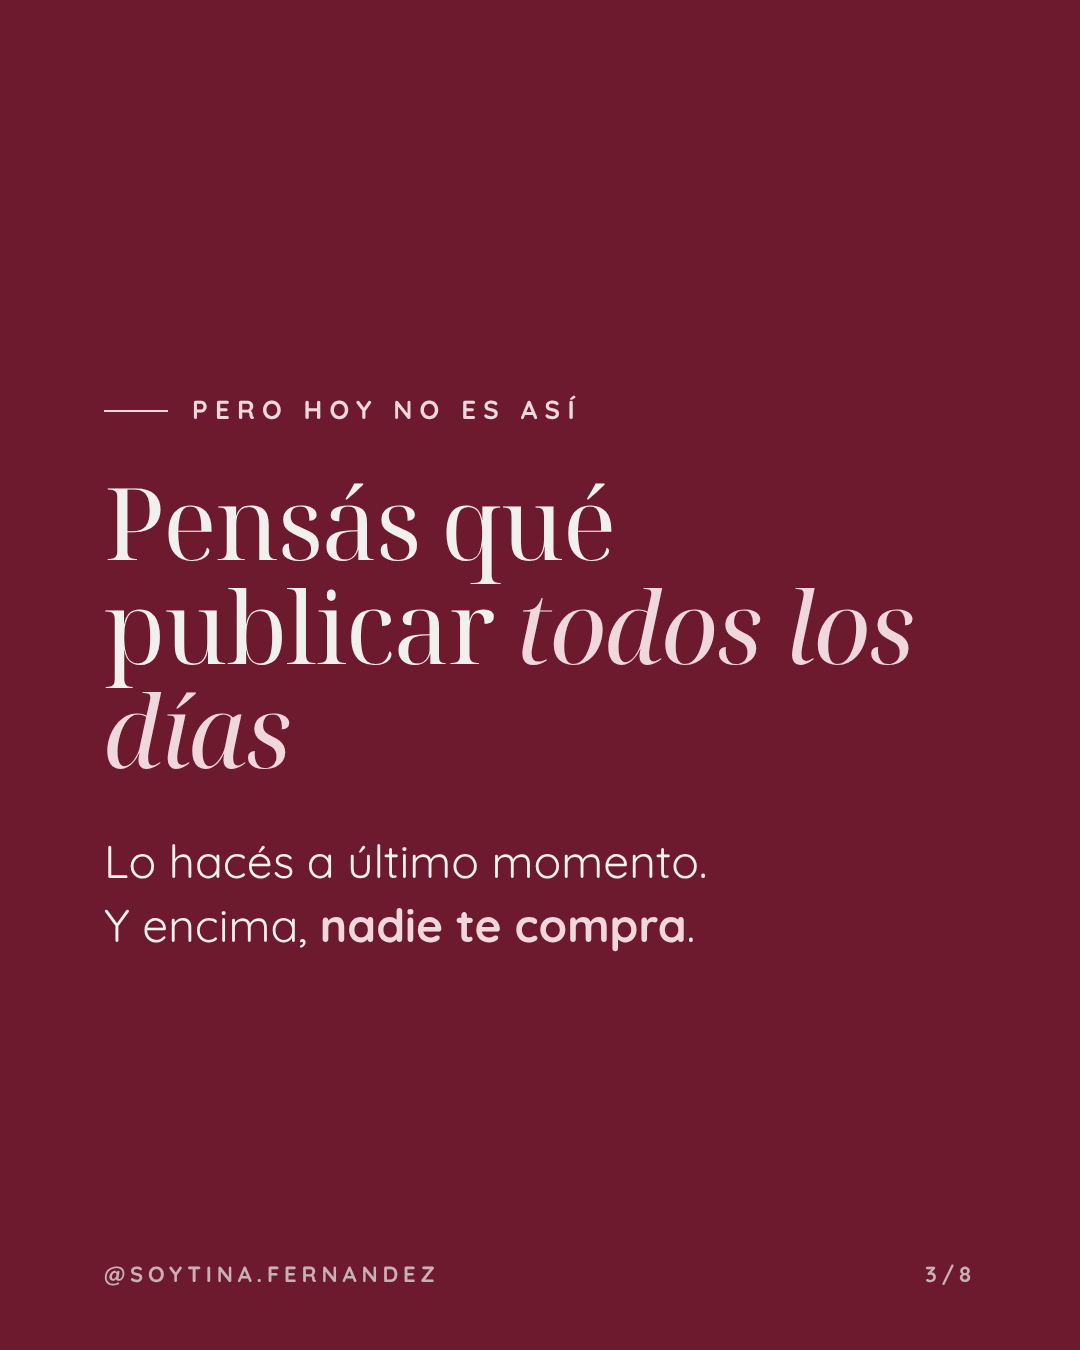
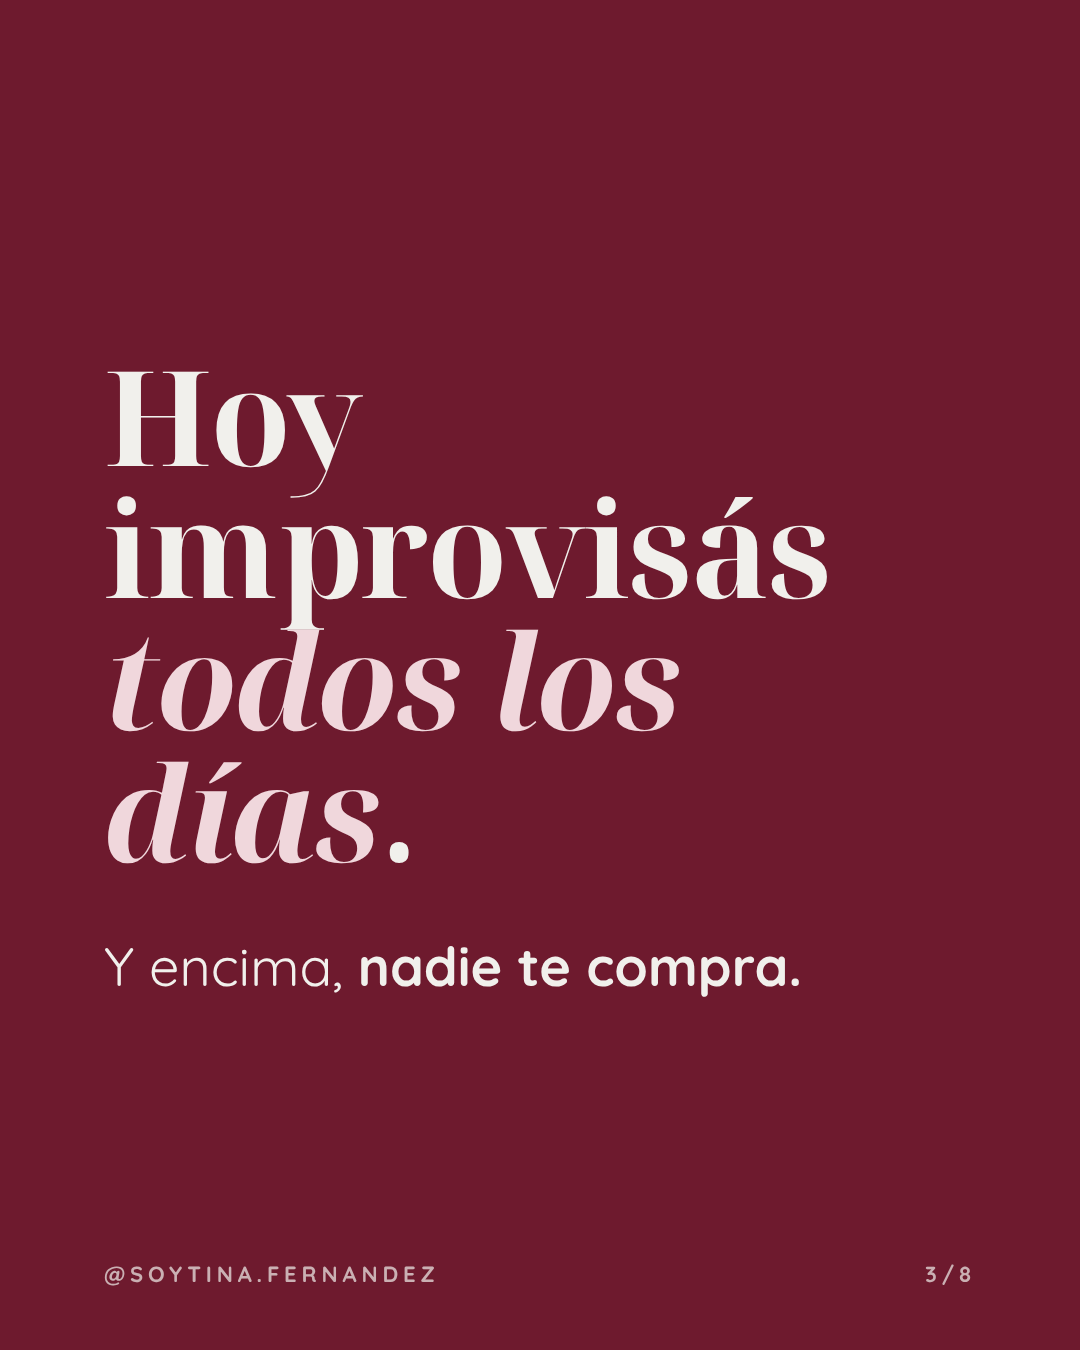
Carrusel 01: interior más simple y llamativo; notas de diseño en marca
Claude-Session: https://claude.ai/code/session_01646vauRcMy6cepeBrdUKa1

diff --git a/carruseles/01-mes-de-contenido-en-una-tarde/slides.html b/carruseles/01-mes-de-contenido-en-una-tarde/slides.html
@@ -114,6 +114,25 @@
     font-family: var(--font-titulo); font-weight: 700; font-size: 84px; letter-spacing: .08em;
   }
   .cta .pie { color: var(--fondo); }
+
+  /* Interior llamativo: una frase grande por slide */
+  .grande h2 { font-size: 132px; font-weight: 700; line-height: 1; margin-bottom: 56px; }
+  .grande h2 mark { font-weight: 700; }
+  .grande .sub { font-size: 54px; font-weight: 700; line-height: 1.25; }
+  .grande .sub span { font-weight: 400; }
+  .paso-g { display: flex; align-items: center; gap: 44px; }
+  .paso-g + .paso-g { margin-top: 110px; }
+  .paso-g .n {
+    flex-shrink: 0; width: 170px; height: 170px; border-radius: 50%; background: var(--acento); color: var(--fondo);
+    display: flex; align-items: center; justify-content: center;
+    font-family: var(--font-titulo); font-weight: 700; font-size: 110px; line-height: 1;
+  }
+  .paso-g h3 { font-family: var(--font-titulo); font-weight: 700; font-size: 84px; line-height: 1.02; }
+  .paso-g h3 mark { font-style: italic; }
+  .resumen-g li { font-family: var(--font-titulo); font-size: 92px; font-weight: 700; line-height: 1; padding: 22px 0; border: 0; }
+  .resumen-g ol { margin-bottom: 40px; }
+  .resumen-g li::before { font-size: 92px; font-weight: 700; min-width: 80px; }
+  .resumen-g .cierre { font-size: 84px; font-weight: 700; margin-top: 30px; }
 </style>
 </head>
 <body>
@@ -129,79 +148,58 @@
 </section>
 
 <!-- 2 · El sueño -->
-<section class="slide texto">
+<section class="slide grande">
   <div class="contenido">
-    <p class="etiqueta">Imaginate esto</p>
-    <h2>Es lunes y tu mes ya está <mark>listo</mark></h2>
-    <p>No tenés que pensar más qué subir.<br>Abrís Instagram y <b>ya está todo hecho</b>.</p>
+    <h2>Tu mes de contenido, <mark>listo</mark>.</h2>
+    <p class="sub">Sin pensar qué subir <span>cada día.</span></p>
   </div>
   <div class="pie"><span>@soytina.fernandez</span><span>2/8</span></div>
 </section>
 
 <!-- 3 · El dolor -->
-<section class="slide texto bordo">
+<section class="slide grande bordo">
   <div class="contenido">
-    <p class="etiqueta">Pero hoy no es así</p>
-    <h2>Pensás qué publicar <mark>todos los días</mark></h2>
-    <p>Lo hacés a último momento.<br>Y encima, <mark>nadie te compra</mark>.</p>
+    <h2>Hoy improvisás <mark>todos los días</mark>.</h2>
+    <p class="sub"><span>Y encima,</span> nadie te compra.</p>
   </div>
   <div class="pie"><span>@soytina.fernandez</span><span>3/8</span></div>
 </section>
 
 <!-- 4 · La solución -->
-<section class="slide texto rosa">
+<section class="slide grande rosa">
   <div class="contenido">
-    <p class="etiqueta">El secreto</p>
-    <h2>Hacer <mark>todo junto</mark></h2>
-    <p>En vez de un post por día, hacés <b>todo el mes en una tarde</b>.</p>
-    <p>Así ↓</p>
+    <h2>El secreto: hacer <mark>todo junto</mark>.</h2>
+    <p class="sub"><span>4 pasos.</span> Así ↓</p>
   </div>
   <div class="pie"><span>@soytina.fernandez</span><span>4/8</span></div>
 </section>
 
 <!-- 5 · Pasos 1 y 2 -->
-<section class="slide texto">
+<section class="slide grande">
   <div class="contenido">
-    <p class="etiqueta">Primero</p>
-    <h2>Las ideas y <mark>los textos</mark></h2>
-    <div class="paso">
-      <div class="n">1</div>
-      <div><h3>Anotá 30 ideas</h3><p>Cada pregunta de tus clientas es una idea.</p></div>
-    </div>
-    <div class="paso">
-      <div class="n">2</div>
-      <div><h3>Escribí los 30 textos</h3><p>Uno atrás del otro, sin publicar nada.</p></div>
-    </div>
+    <div class="paso-g"><div class="n">1</div><h3>Anotá <mark>30 ideas</mark></h3></div>
+    <div class="paso-g"><div class="n">2</div><h3>Escribí <mark>todos</mark> los textos</h3></div>
   </div>
   <div class="pie"><span>@soytina.fernandez</span><span>5/8</span></div>
 </section>
 
 <!-- 6 · Pasos 3 y 4 -->
-<section class="slide texto">
+<section class="slide grande">
   <div class="contenido">
-    <p class="etiqueta">Después</p>
-    <h2>Grabá y <mark>programá</mark></h2>
-    <div class="paso">
-      <div class="n">3</div>
-      <div><h3>Grabá todo el mismo día</h3><p>Misma ropa, mismo lugar.</p></div>
-    </div>
-    <div class="paso">
-      <div class="n">4</div>
-      <div><h3>Programalo en Instagram</h3><p>Lo cargás una vez y <mark>se sube solo</mark>.</p></div>
-    </div>
+    <div class="paso-g"><div class="n">3</div><h3>Grabá todo <mark>el mismo día</mark></h3></div>
+    <div class="paso-g"><div class="n">4</div><h3>Programalo y <mark>se sube solo</mark></h3></div>
   </div>
   <div class="pie"><span>@soytina.fernandez</span><span>6/8</span></div>
 </section>
 
 <!-- 7 · Resumen guardable -->
-<section class="slide texto rosa resumen">
+<section class="slide rosa resumen resumen-g">
   <div class="contenido">
-    <p class="etiqueta">Repasemos</p>
     <ol>
-      <li>Anotá 30 ideas</li>
-      <li>Escribí los textos</li>
-      <li>Grabá todo junto</li>
-      <li>Programalo</li>
+      <li>Anotá ideas</li>
+      <li>Escribí</li>
+      <li>Grabá</li>
+      <li>Programá</li>
     </ol>
     <p class="cierre">Una tarde = <mark>un mes listo</mark>.</p>
   </div>

diff --git a/carruseles/01-mes-de-contenido-en-una-tarde/carrusel.md b/carruseles/01-mes-de-contenido-en-una-tarde/carrusel.md
@@ -9,12 +9,12 @@
 | # | Rol | Layout | Título | Texto |
 |---|-----|--------|--------|-------|
 | 1 | Hook aspiracional | portada con foto abajo | Podés crear un mes de contenido en una sola tarde | GUARDÁ ESTE POST · Deslizá → |
-| 2 | El sueño | texto crema | Es lunes y tu mes ya está listo | No tenés que pensar más qué subir. Abrís Instagram y ya está todo hecho. |
-| 3 | El dolor | texto bordó | Pensás qué publicar todos los días | Lo hacés a último momento. Y encima, nadie te compra. |
-| 4 | La solución | texto rosa | Hacer todo junto | En vez de un post por día, hacés todo el mes en una tarde. Así ↓ |
-| 5 | Pasos 1 y 2 | pasos | Las ideas y los textos | 1. Anotá 30 ideas (cada pregunta de tus clientas es una idea). 2. Escribí los 30 textos, uno atrás del otro. |
-| 6 | Pasos 3 y 4 | pasos | Grabá y programá | 3. Grabá todo el mismo día (misma ropa, mismo lugar). 4. Programalo en Instagram y se sube solo. |
-| 7 | Resumen | lista rosa | Repasemos | 1 Anotá 30 ideas · 2 Escribí los textos · 3 Grabá todo junto · 4 Programalo · Una tarde = un mes listo. |
+| 2 | El sueño | frase grande, crema | Tu mes de contenido, listo. | Sin pensar qué subir cada día. |
+| 3 | El dolor | frase grande, bordó | Hoy improvisás todos los días. | Y encima, nadie te compra. |
+| 4 | La solución | frase grande, rosa | El secreto: hacer todo junto. | 4 pasos. Así ↓ |
+| 5 | Pasos 1 y 2 | números en círculo | 1 Anotá 30 ideas · 2 Escribí todos los textos | — |
+| 6 | Pasos 3 y 4 | números en círculo | 3 Grabá todo el mismo día · 4 Programalo y se sube solo | — |
+| 7 | Resumen | lista grande, rosa | 1 Anotá ideas · 2 Escribí · 3 Grabá · 4 Programá | Una tarde = un mes listo. |
 | 8 | CTA | foto arriba + bordó | ¿Querés mi lista de 30 ideas? | Comentá LISTA y te la envío por DM. |
 
 ## Caption

diff --git a/carruseles/marca.md b/carruseles/marca.md
@@ -30,4 +30,9 @@
   - "A prueba de boludos": lenguaje súper simple, frases cortas, una sola idea por slide.
     Nada de jerga (pilares, batching, hooks, funnel, herramientas con nombre raro).
     Si hay pasos, un paso por slide. Ejemplos concretos de la vida real.
-- **Notas de diseño aprendidas**: (todavía ninguna)
+- **Notas de diseño aprendidas**:
+  - Le gustó la portada: título serif arriba sobre crema, foto abajo sin pisar el texto, "Deslizá" en botón bordó.
+  - Interior: demasiado editorial pierde lo llamativo. Preferir UNA frase grande por slide (serif bold ~130px,
+    palabra clave en bordó cursiva) + una línea corta en Quicksand. Sin etiquetas chicas, líneas ni textos de apoyo largos.
+    Pasos: número en círculo bordó + frase corta. Cuanto más simple y conciso, mejor.
+  - Alternar fondos crema / bordó (dolor) / rosa (solución, resumen) funciona.
